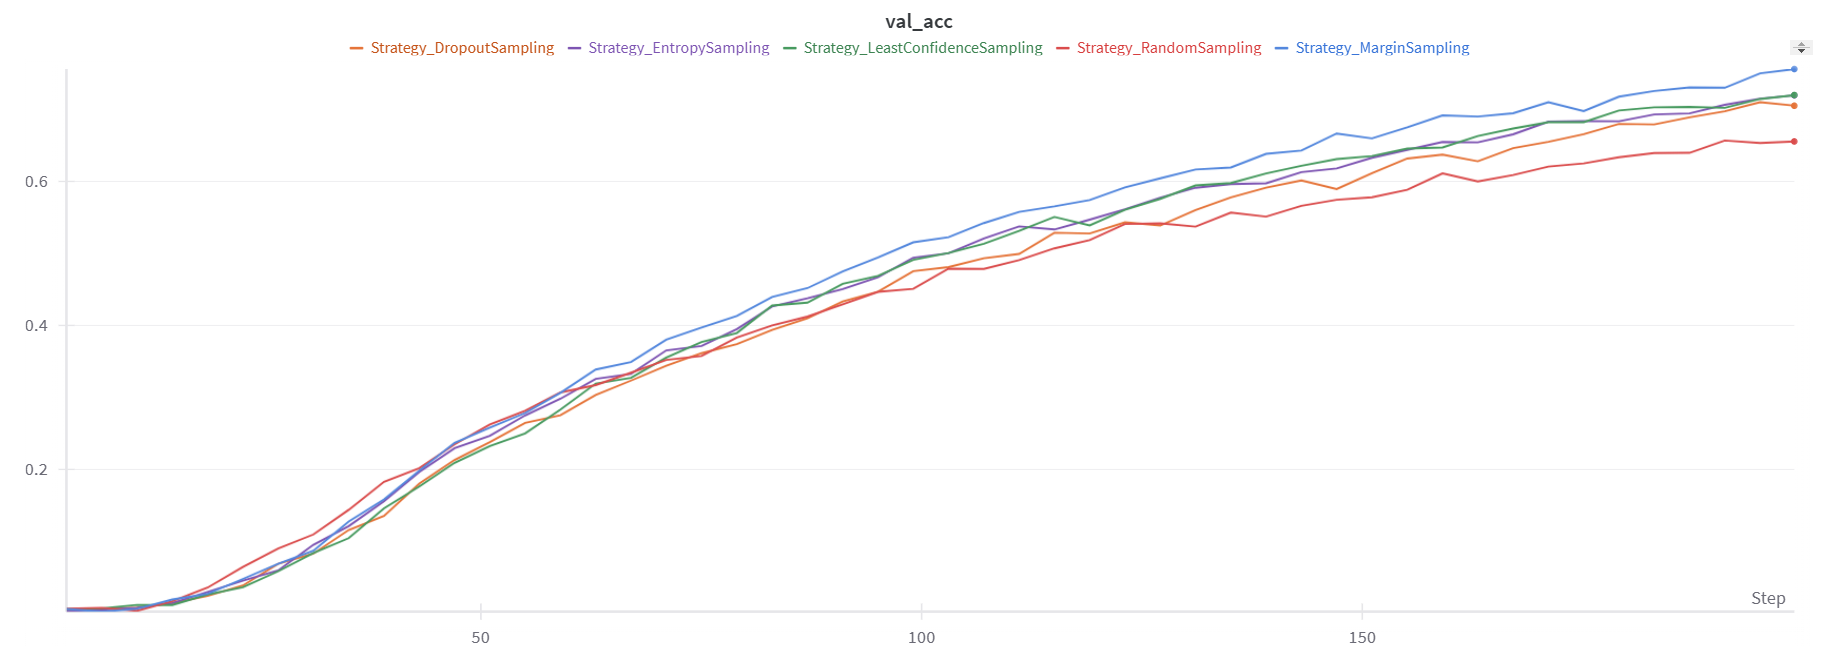
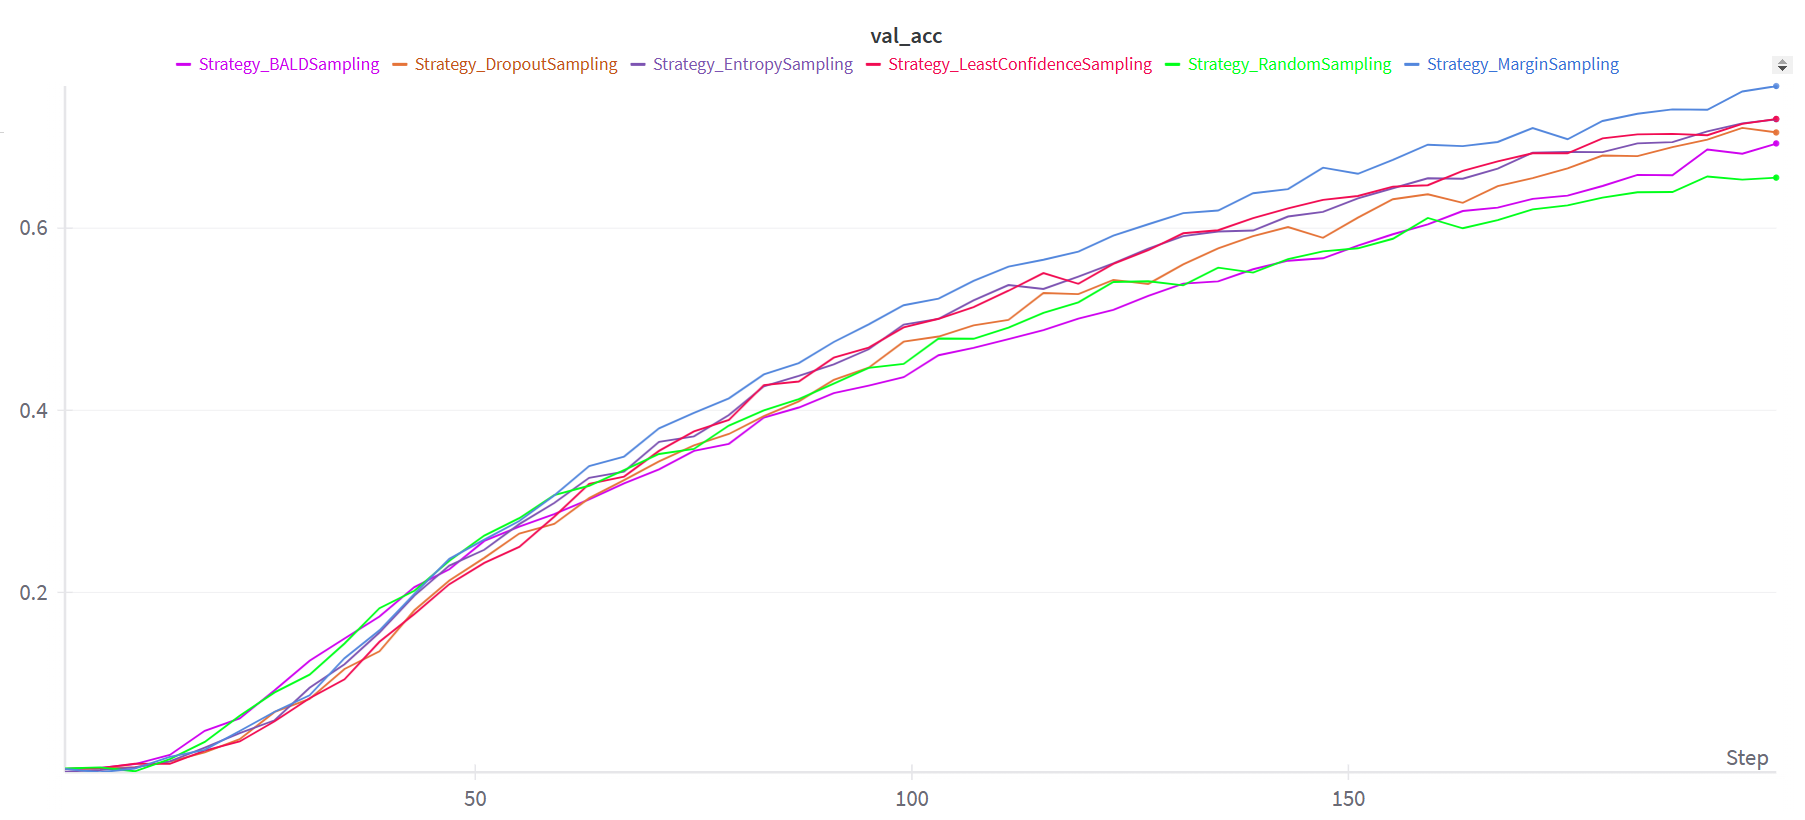
Update experimental results in README and replace images for clarity

diff --git a/README.md b/README.md
@@ -206,13 +206,13 @@ $T$ là số lần inference.
 
 | (N_INIT_LABELED, N_SAMPLES, N_ROUNDS) → TOTAL_SAMPLES | (1000, 2000, 15) → 29000 | (2000, 500, 30) → 16500 | (5000, 1000, 30) → 34000 | (1000, 1000, 30) → 30000 | (2000, 100, 50) → 6900 | (2000, 200, 50) → 11800 |      All data      |
 | :---------------------------------------------------: | :----------------------: | :---------------------: | :----------------------: | :----------------------: | :--------------------: | :---------------------: | :----------------: |
-|                         BALD                          |        **92.718**        |            -            |          94.253          |        **95.429**        |         69.31          |            -            |         -          |
-|                      MC Dropout                       |          92.576          |         92.241          |          94.612          |          94.826          |         71.01          |        **89.95**        |         -          |
-|                        Margin                         |          92.098          |       **92.629**        |          93.463          |          95.322          |       **75.62**        |          89.72          |         -          |
-|                        Entropy                        |            -             |         91.810          |            -             |          95.181          |         71.97          |          89.69          |         -          |
-|                   Least Confidence                    |            -             |         89.727          |        **95.854**        |          95.004          |         72.01          |          89.85          |         -          |
-|                        Random                         |          89.759          |         87.757          |          92.529          |          92.417          |         65.56          |          82.00          |         -          |
-|                         No AL                         |          91.739          |         89.224          |          92.601          |          92.098          |           -            |            -            | **94.109** (56813) |
+|                         BALD                          |          93.994          |         92.275          |          94.253          |        **95.429**        |         69.31          |          89.94          |         -          |
+|                      MC Dropout                       |          94.454          |         92.541          |          94.612          |          94.826          |         71.01          |        **89.95**        |         -          |
+|                        Margin                         |        **94.507**        |         92.629          |          93.463          |          95.322          |       **75.62**        |          89.72          |         -          |
+|                        Entropy                        |          94.295          |         92.665          |          95.571          |          95.181          |         71.97          |          89.69          |         -          |
+|                   Least Confidence                    |          94.295          |       **92.682**        |        **95.854**        |          95.004          |         72.01          |          89.85          |         -          |
+|                        Random                         |          91.637          |         86.871          |          92.529          |          92.417          |         65.56          |          82.16          |         -          |
+|                         No AL                         |          92.222          |         85.648          |          92.601          |          92.098          |         67.01          |          80.99          | **94.109** (56813) |
 
 Kết quả thực nghiệm với bộ 3 tham số: (N_INIT_LABELED, N_SAMPLES, N_ROUNDS) = **(1000, 1000, 30)**
 
